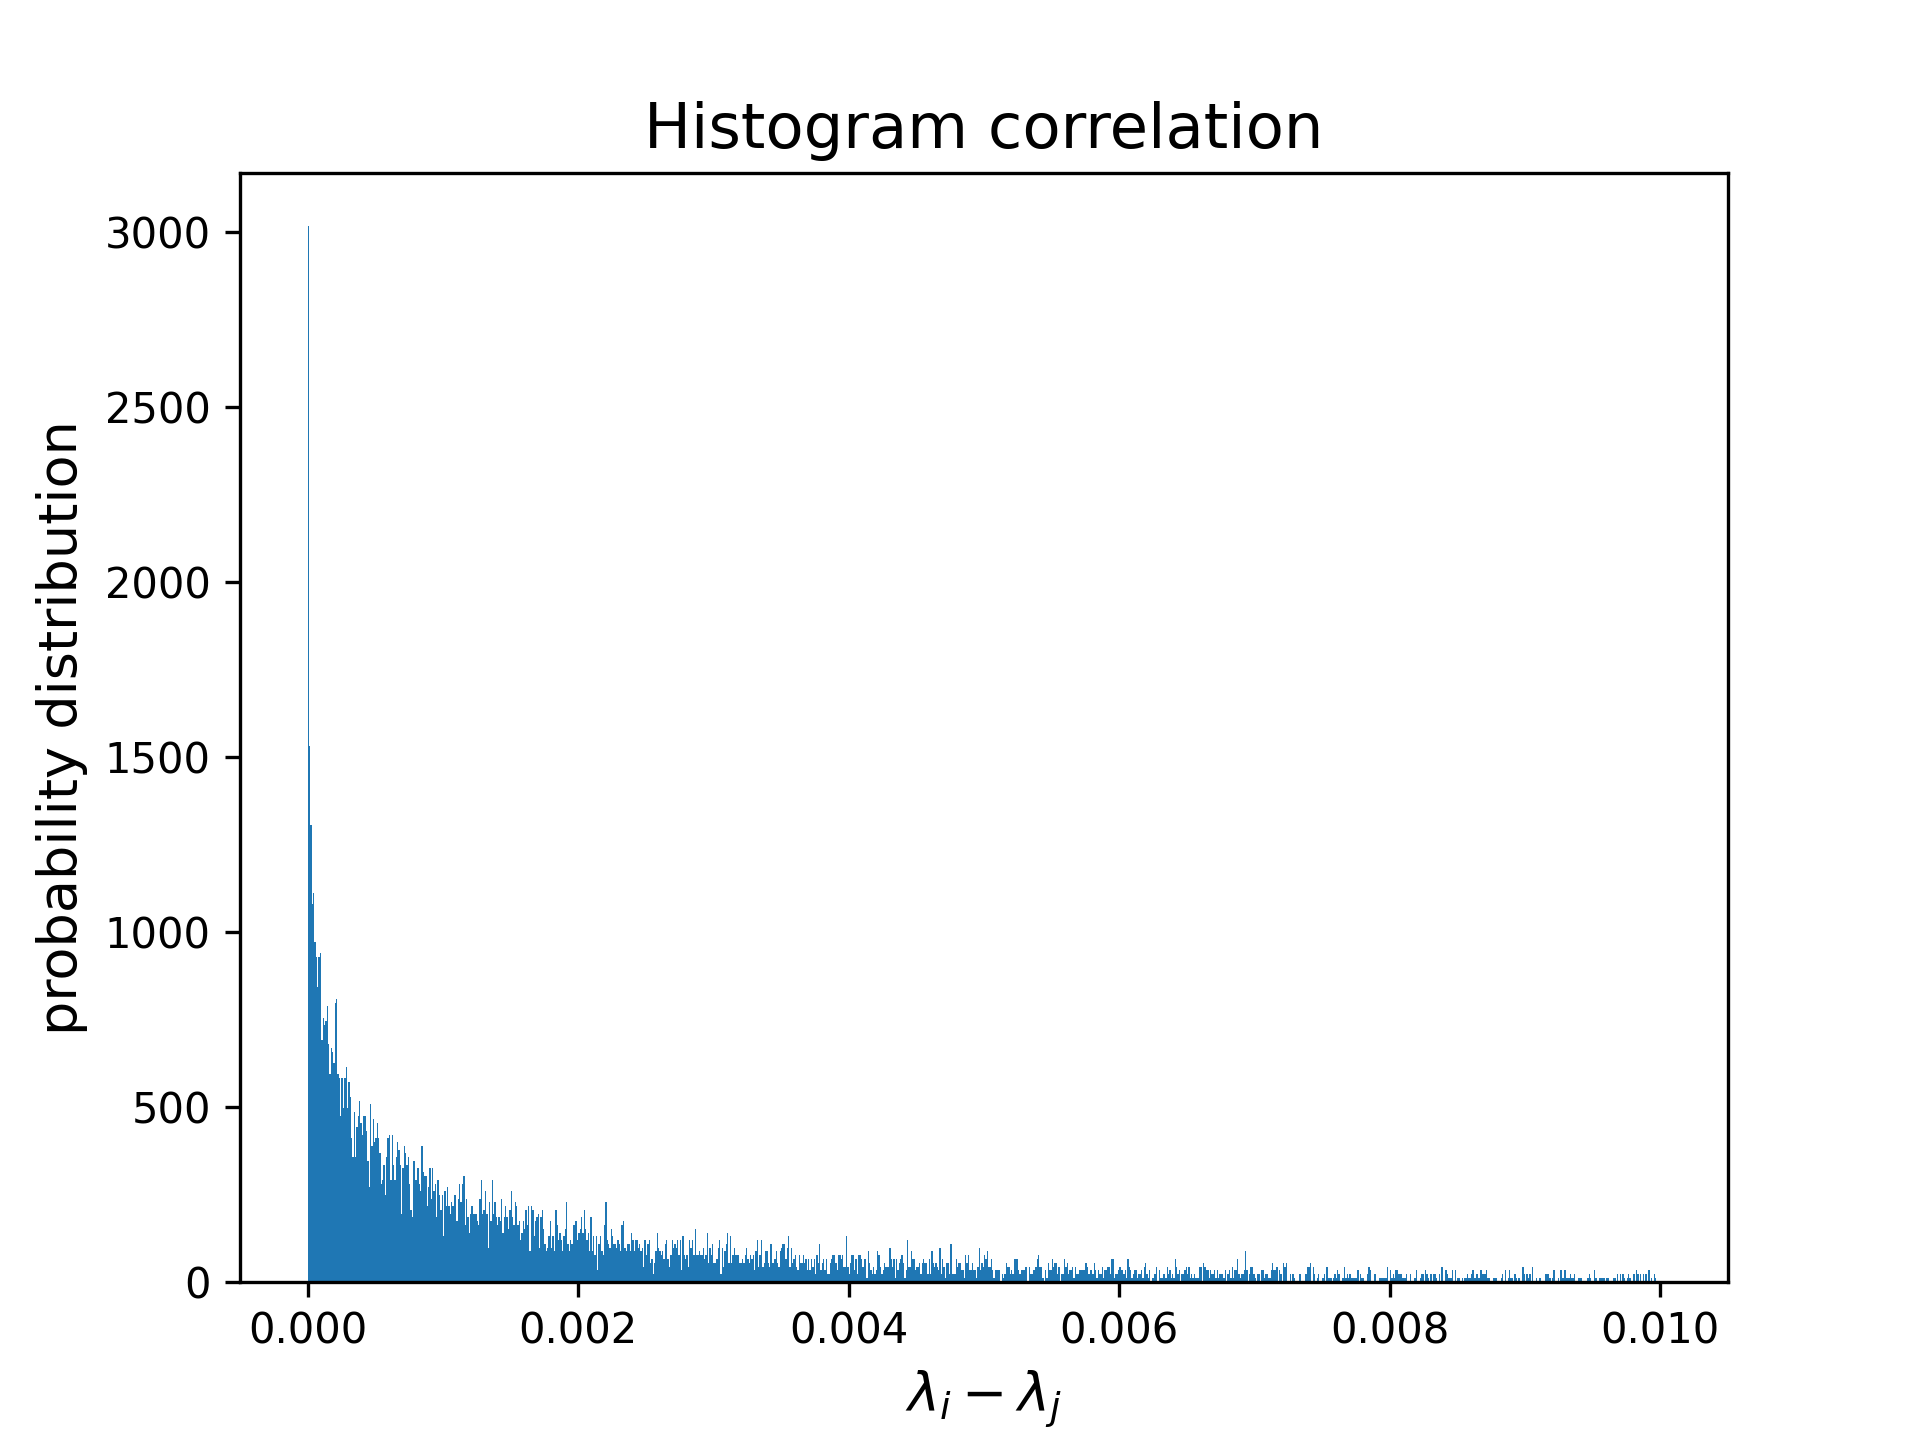
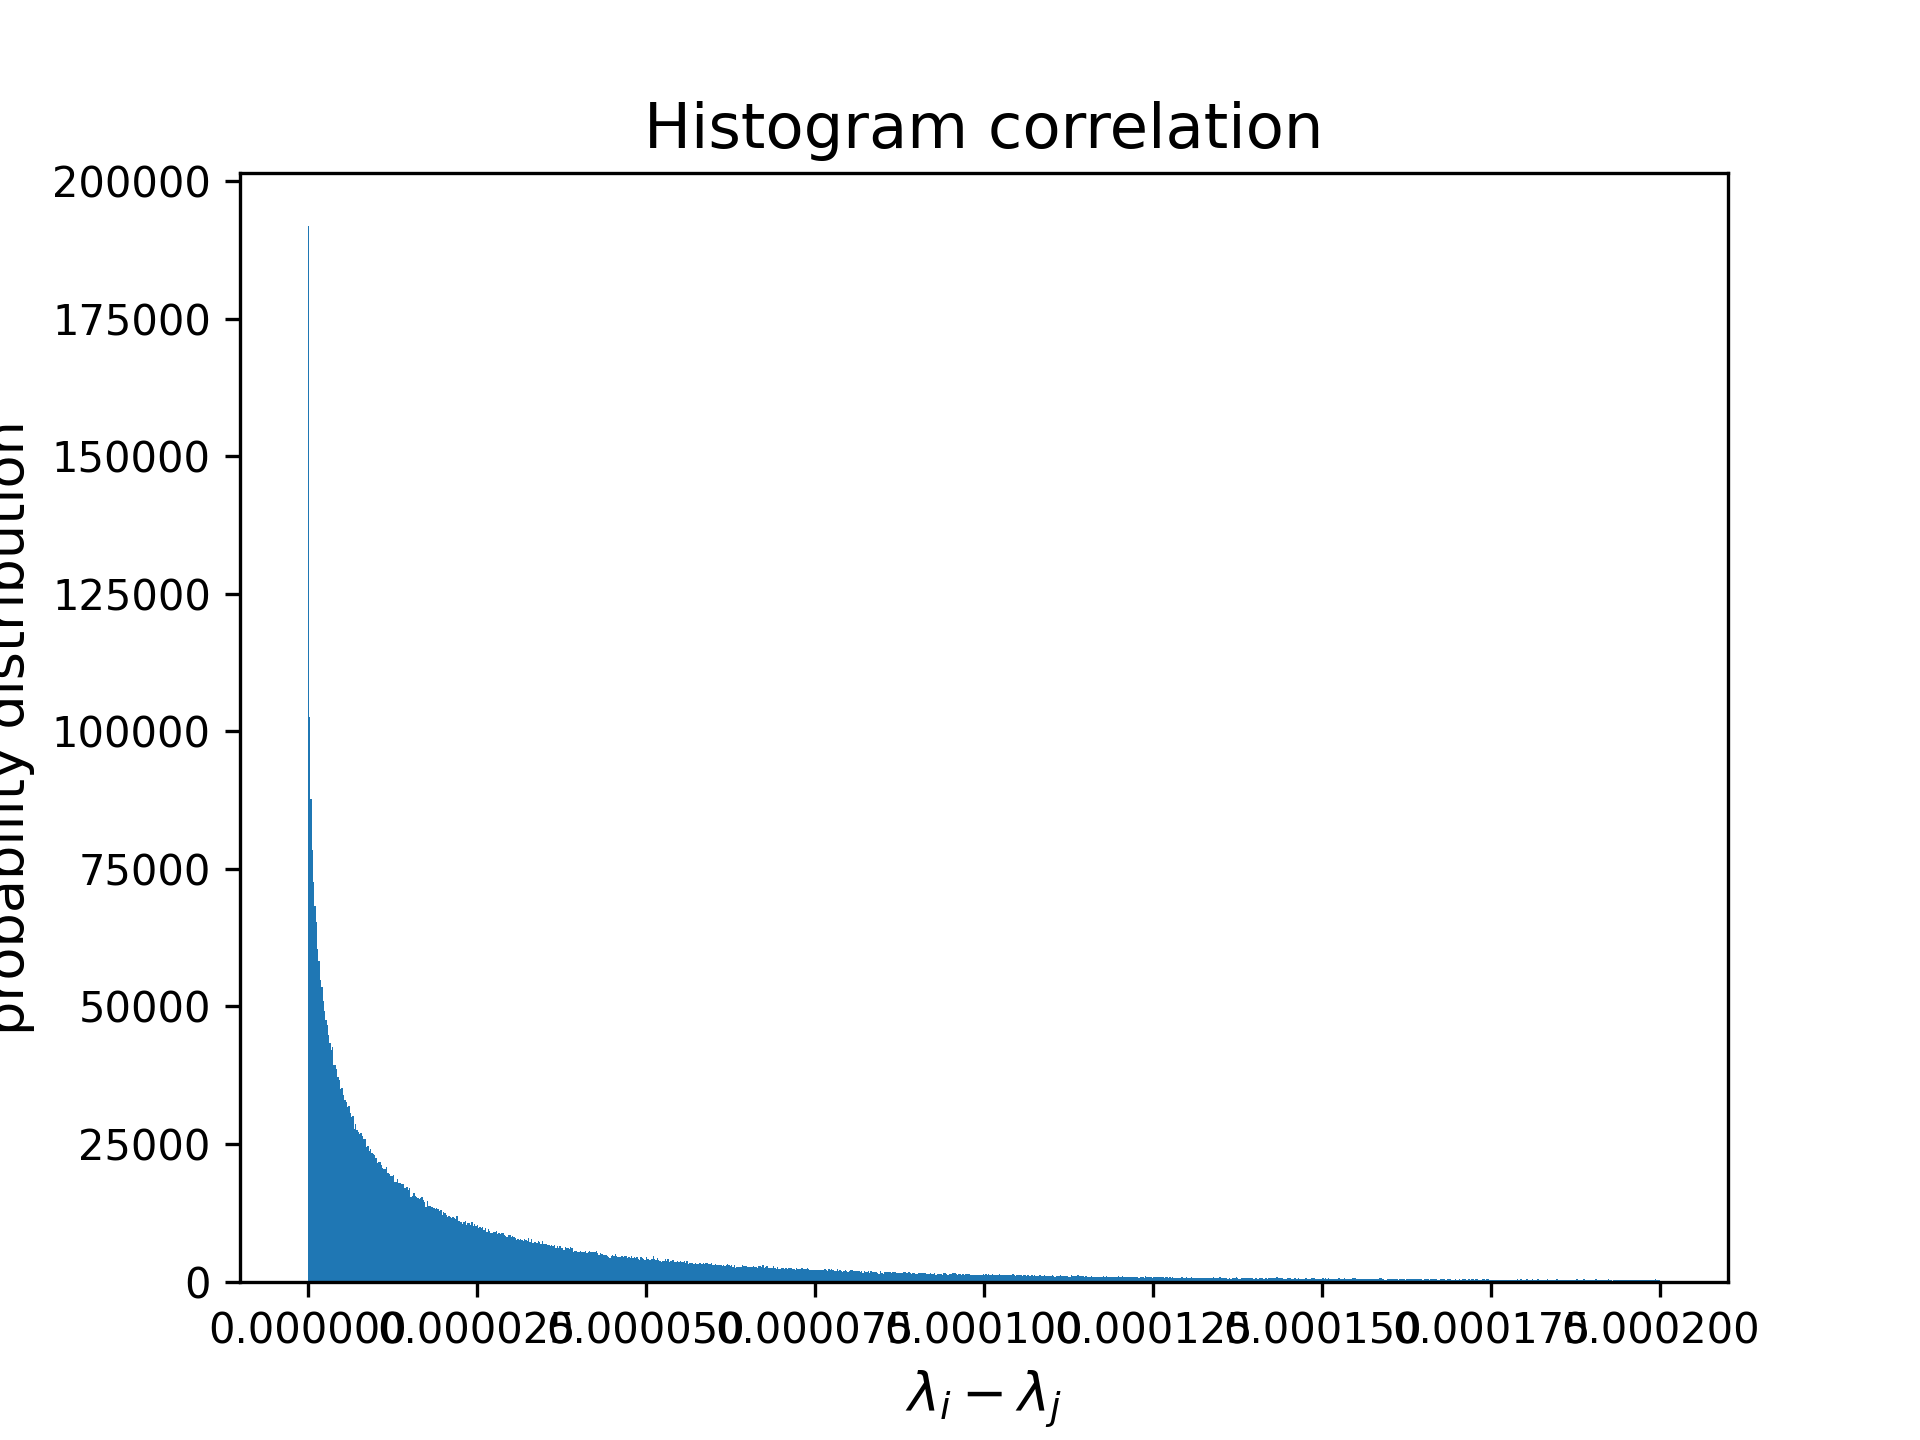
version_28.6.

Changed region(s): [[0.0, 0.0938, 0.125, 0.7188], [0.0938, 0.7812, 0.9062, 0.9375], [0.0312, 0.75, 0.125, 0.8125]]

diff --git a/RMT.py b/RMT.py
@@ -1,5 +1,6 @@
 import numpy as np
 from scipy import linalg as lg
+from scipy import signal
 import matplotlib.pyplot as plt
 import pandas as pd
 
@@ -7,28 +8,20 @@ import pandas as pd
 #Defining important constants
 
 N = int(10)
-M = int(5000)
+M = int(80)
 
 
 #Defining matricies
-S = np.zeros(shape=(N,N))
-mathcalS = np.zeros(shape=(N*N,N*N))
 mathcalA = np.zeros(shape=(N*N,N*N))
 kappa = np.zeros(shape=(N*N,N*N))
 U = np.zeros(shape=(N*N,N*N))
 tildekappa = np.zeros(shape=(N*N,N*N))
 K_0 = np.zeros(shape=(N*N,N*N))
+kappa_0 = np.zeros(shape=(N*N,N*N))
+mathcalL = np.zeros(shape=(N*N,N*N))
 Lambda = np.array([])
 dif = np.array([])
 
-
-#Defining S and \mathcalS
-for i in range(int(N/2)):
-    S[i][i] = 1
-for i in range(int(N/2), N):
-    S[i][i] = -1
-
-mathcalS = np.kron(S, S)
 
 #Implementing U from Timm and Lange
 for i in range(N):
@@ -124,7 +117,19 @@ for e in range(M):
     for b in range(N*N):
             K_0[b][N*(N-1)+(N-1)] = 0
 
-    values, vectors = lg.eig(K_0)
+    #Calculating mathcalL from K_0 via Lange,Timm (easy way, by back-transforming) Eq.:(23)
+    kappa_0 = U.T.dot(K_0.dot(U))
+    for i in range(N):
+        for j in range(N):
+            for m in range(N):
+                for n in range(N):
+                    for sum in range(N):
+                        mathcalL[N*i+j][N*m+n] += signal.unit_impulse(N*N, i)*0.5*kappa_0[sum*N+j][sum*N+n] + signal.unit_impulse(N*N, j)*0.5*kappa_0[i*N+sum][m*N+sum]
+                    mathcalL[N*i+j][N*m+n] += kappa_0[N*i+m][N*j+n]
+
+
+
+    values = lg.eigvals(mathcalL)
 
     Lambda = np.append(Lambda, values)
 
@@ -147,7 +152,7 @@ plt.savefig('Plots/Hist.png', dpi=300)
 plt.clf()
 
 #distance
-n, bins, patches = plt.hist(dif, bins = 1000, range = (0, 0.01), density = True)
+n, bins, patches = plt.hist(dif, bins = 1000, range = (0, 0.0002), density = True)
 
 plt.title('Histogram correlation', fontsize = 15)
 plt.xlabel('$\lambda_i - \lambda_j$', fontsize = 13)
